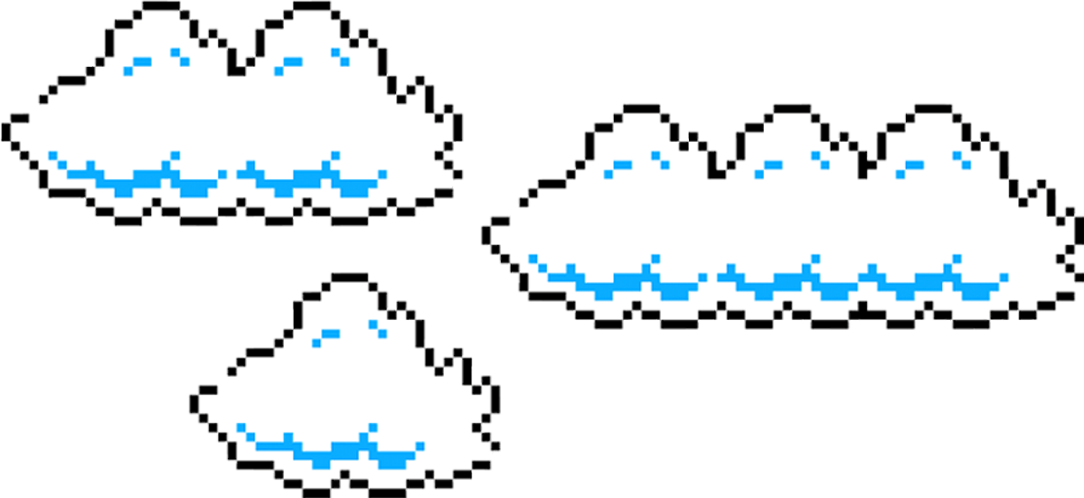
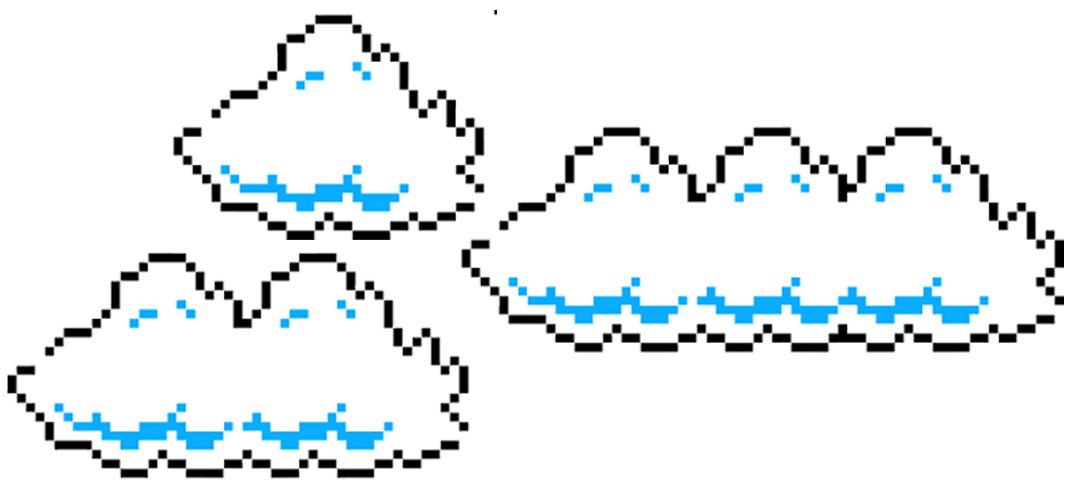
Ajustando programação de movimento das núveis

Changed region(s): [[0.0, 0.0, 1.0, 1.0]]

diff --git a/css/style.css b/css/style.css
@@ -81,7 +81,13 @@ button:hover::before {
 .clouds {
     position: absolute;
     width: 400px;
-    animation: clouds-animation 20s infinite linear;
+    animation: clouds-animation 13s infinite linear;
+}
+
+.cloudsTwo {
+    position: absolute;
+    width: 400px;
+    animation: clouds-animationTwo 18s infinite linear;
 }
 
 /* Objeto gameOver */
@@ -151,6 +157,35 @@ button:hover::before {
     to {
         right: 100%;
     }
+}
+
+@keyframes clouds-animationTwo {
+    
+	0% {
+        right: -400px;
+    }
+	1% {
+        right: -400px;
+    }
+	10% {
+        right: -400px;
+    }
+	20% {
+        right: -400px;
+    }
+    100% {
+        right: 100%;
+    }
+	
+	
+	/*
+	from {
+        right: -400px;
+    }
+
+    to {
+        right: 100%;
+    }*/
 }
 
 @keyframes fallAnimation {

diff --git a/index.html b/index.html
@@ -37,7 +37,8 @@
         </div>
 
         <div class="game-board">
-            <img src="./images/clouds.png" class="clouds" />
+            <img src="./images/clouds.png" class="cloudsTwo" />
+			<img src="./images/clouds.png" class="clouds" />
             <img src="./images/mario.gif" class="mario" />
             <img src="./images/pipe.png" class="pipe" />
             <img src="./images/mario-game-over.png" class="gameOver" />
